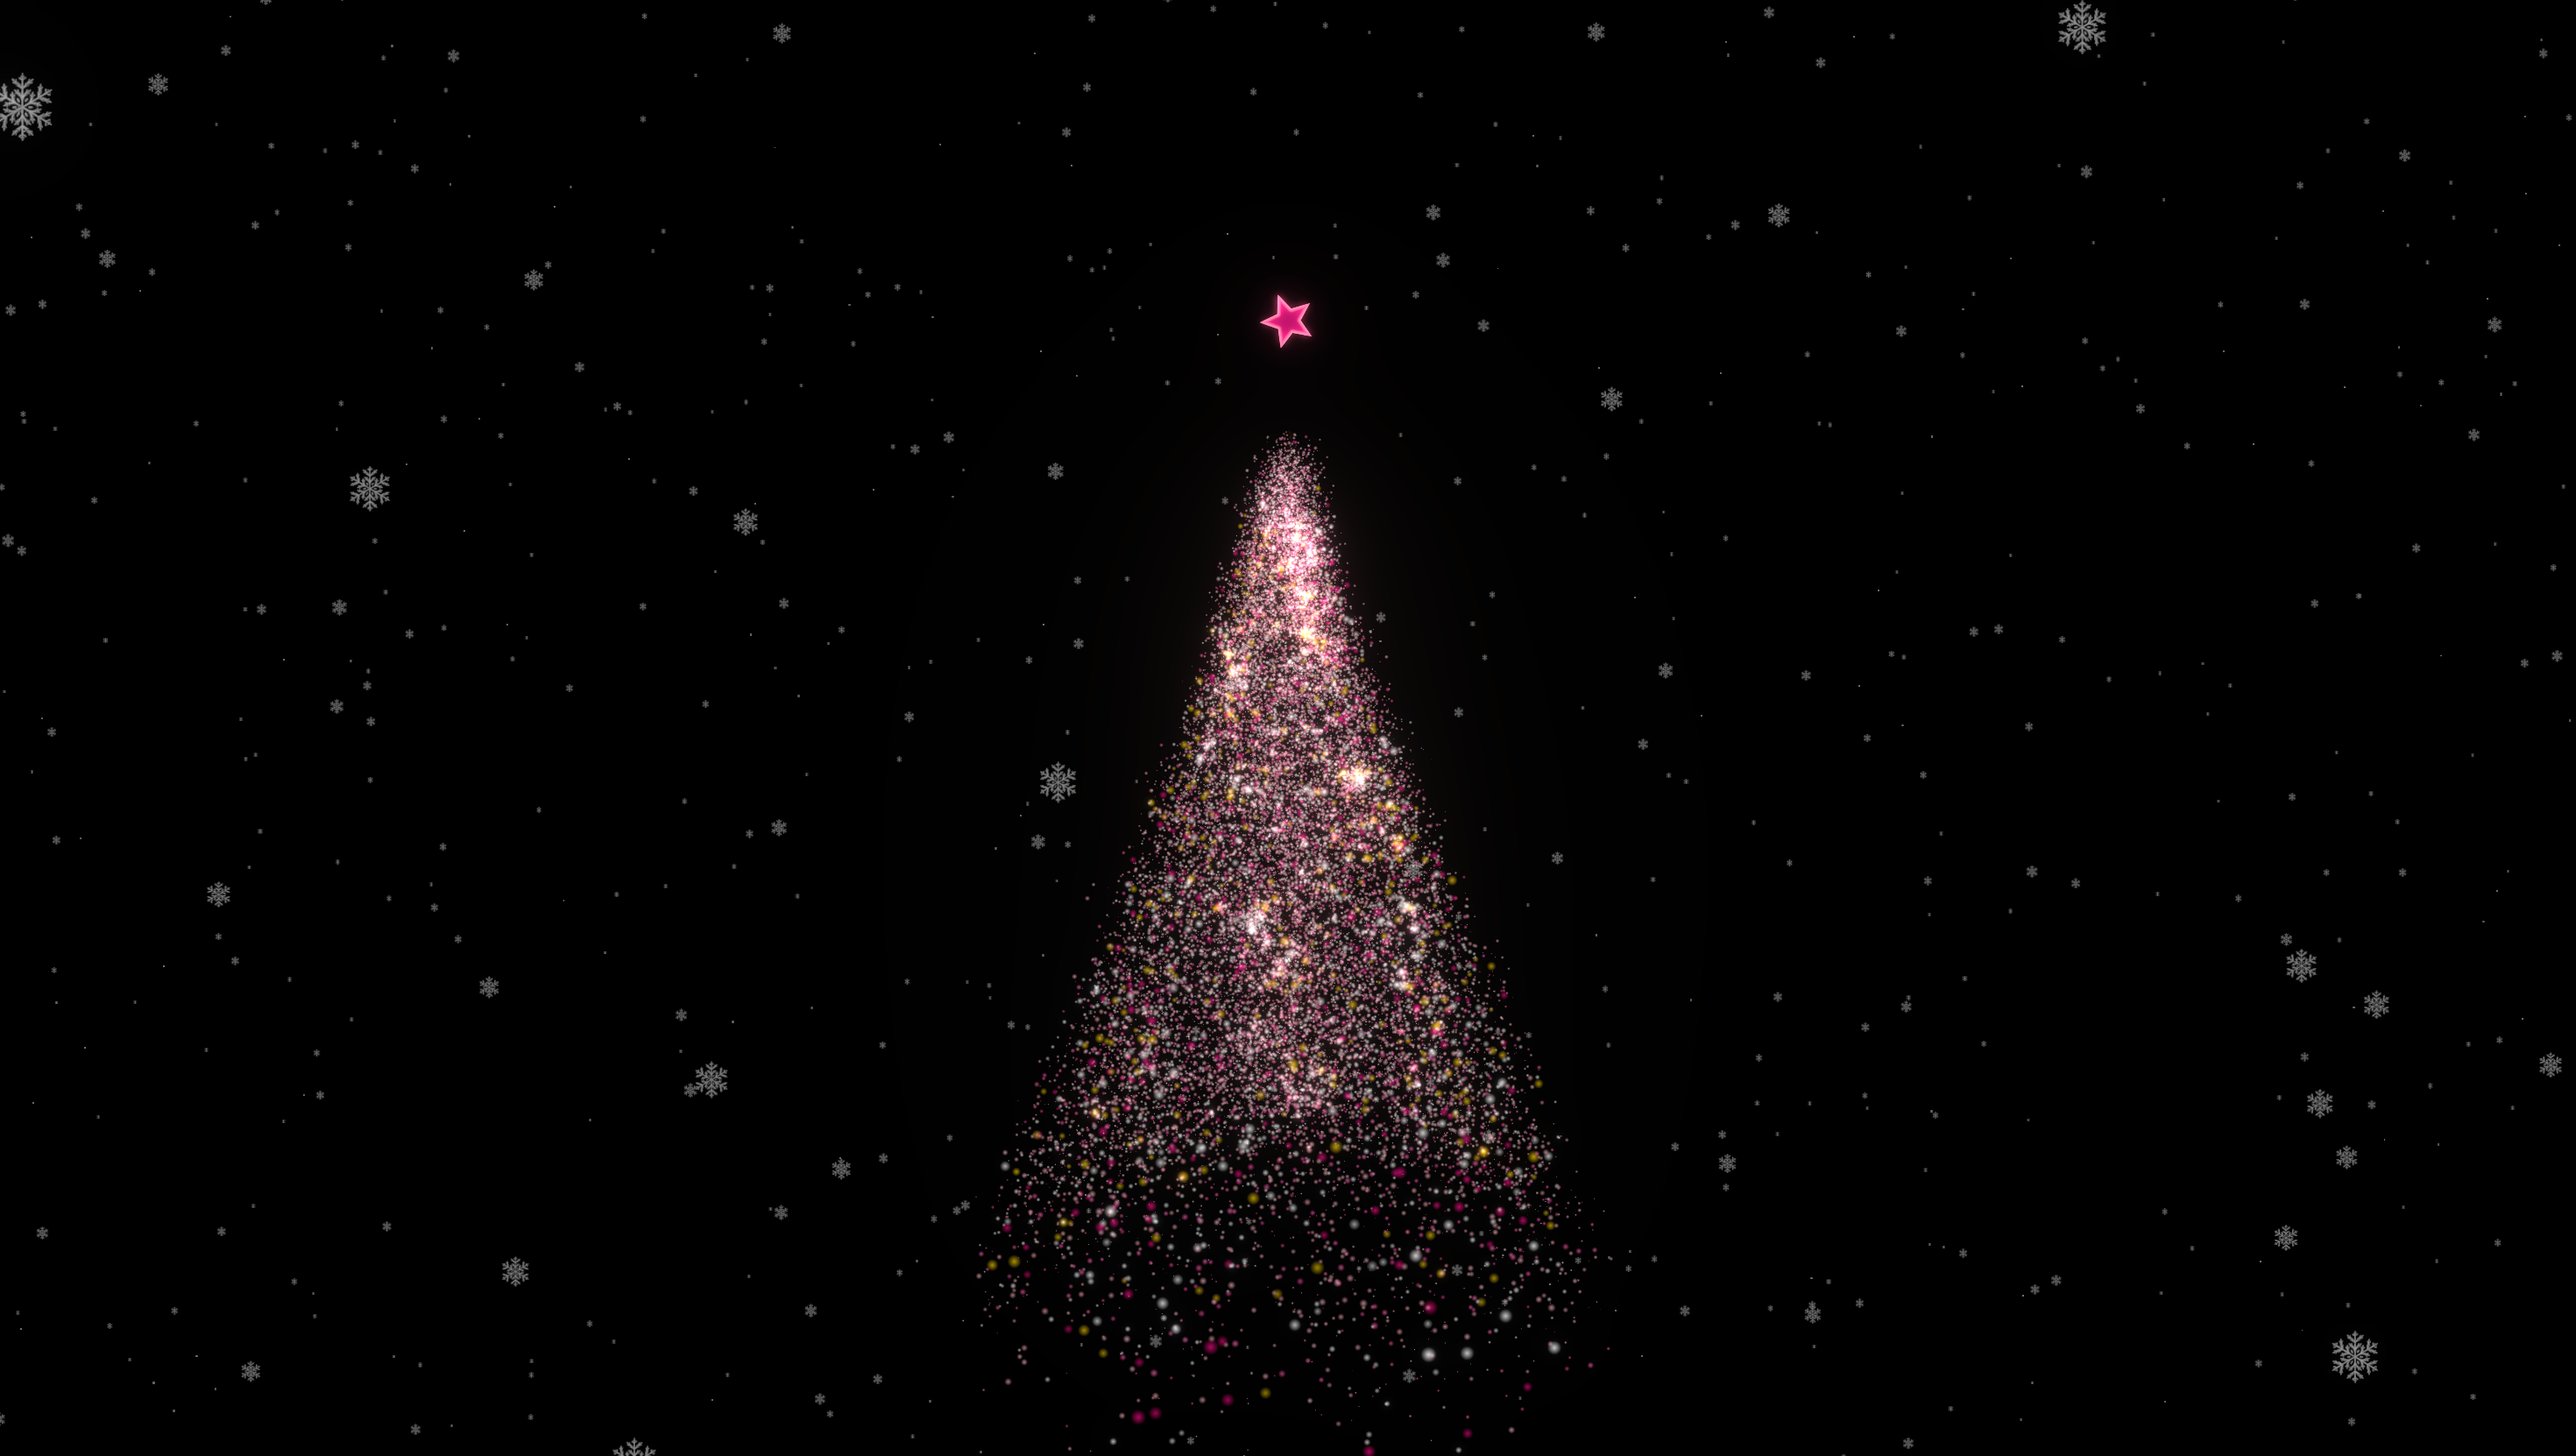
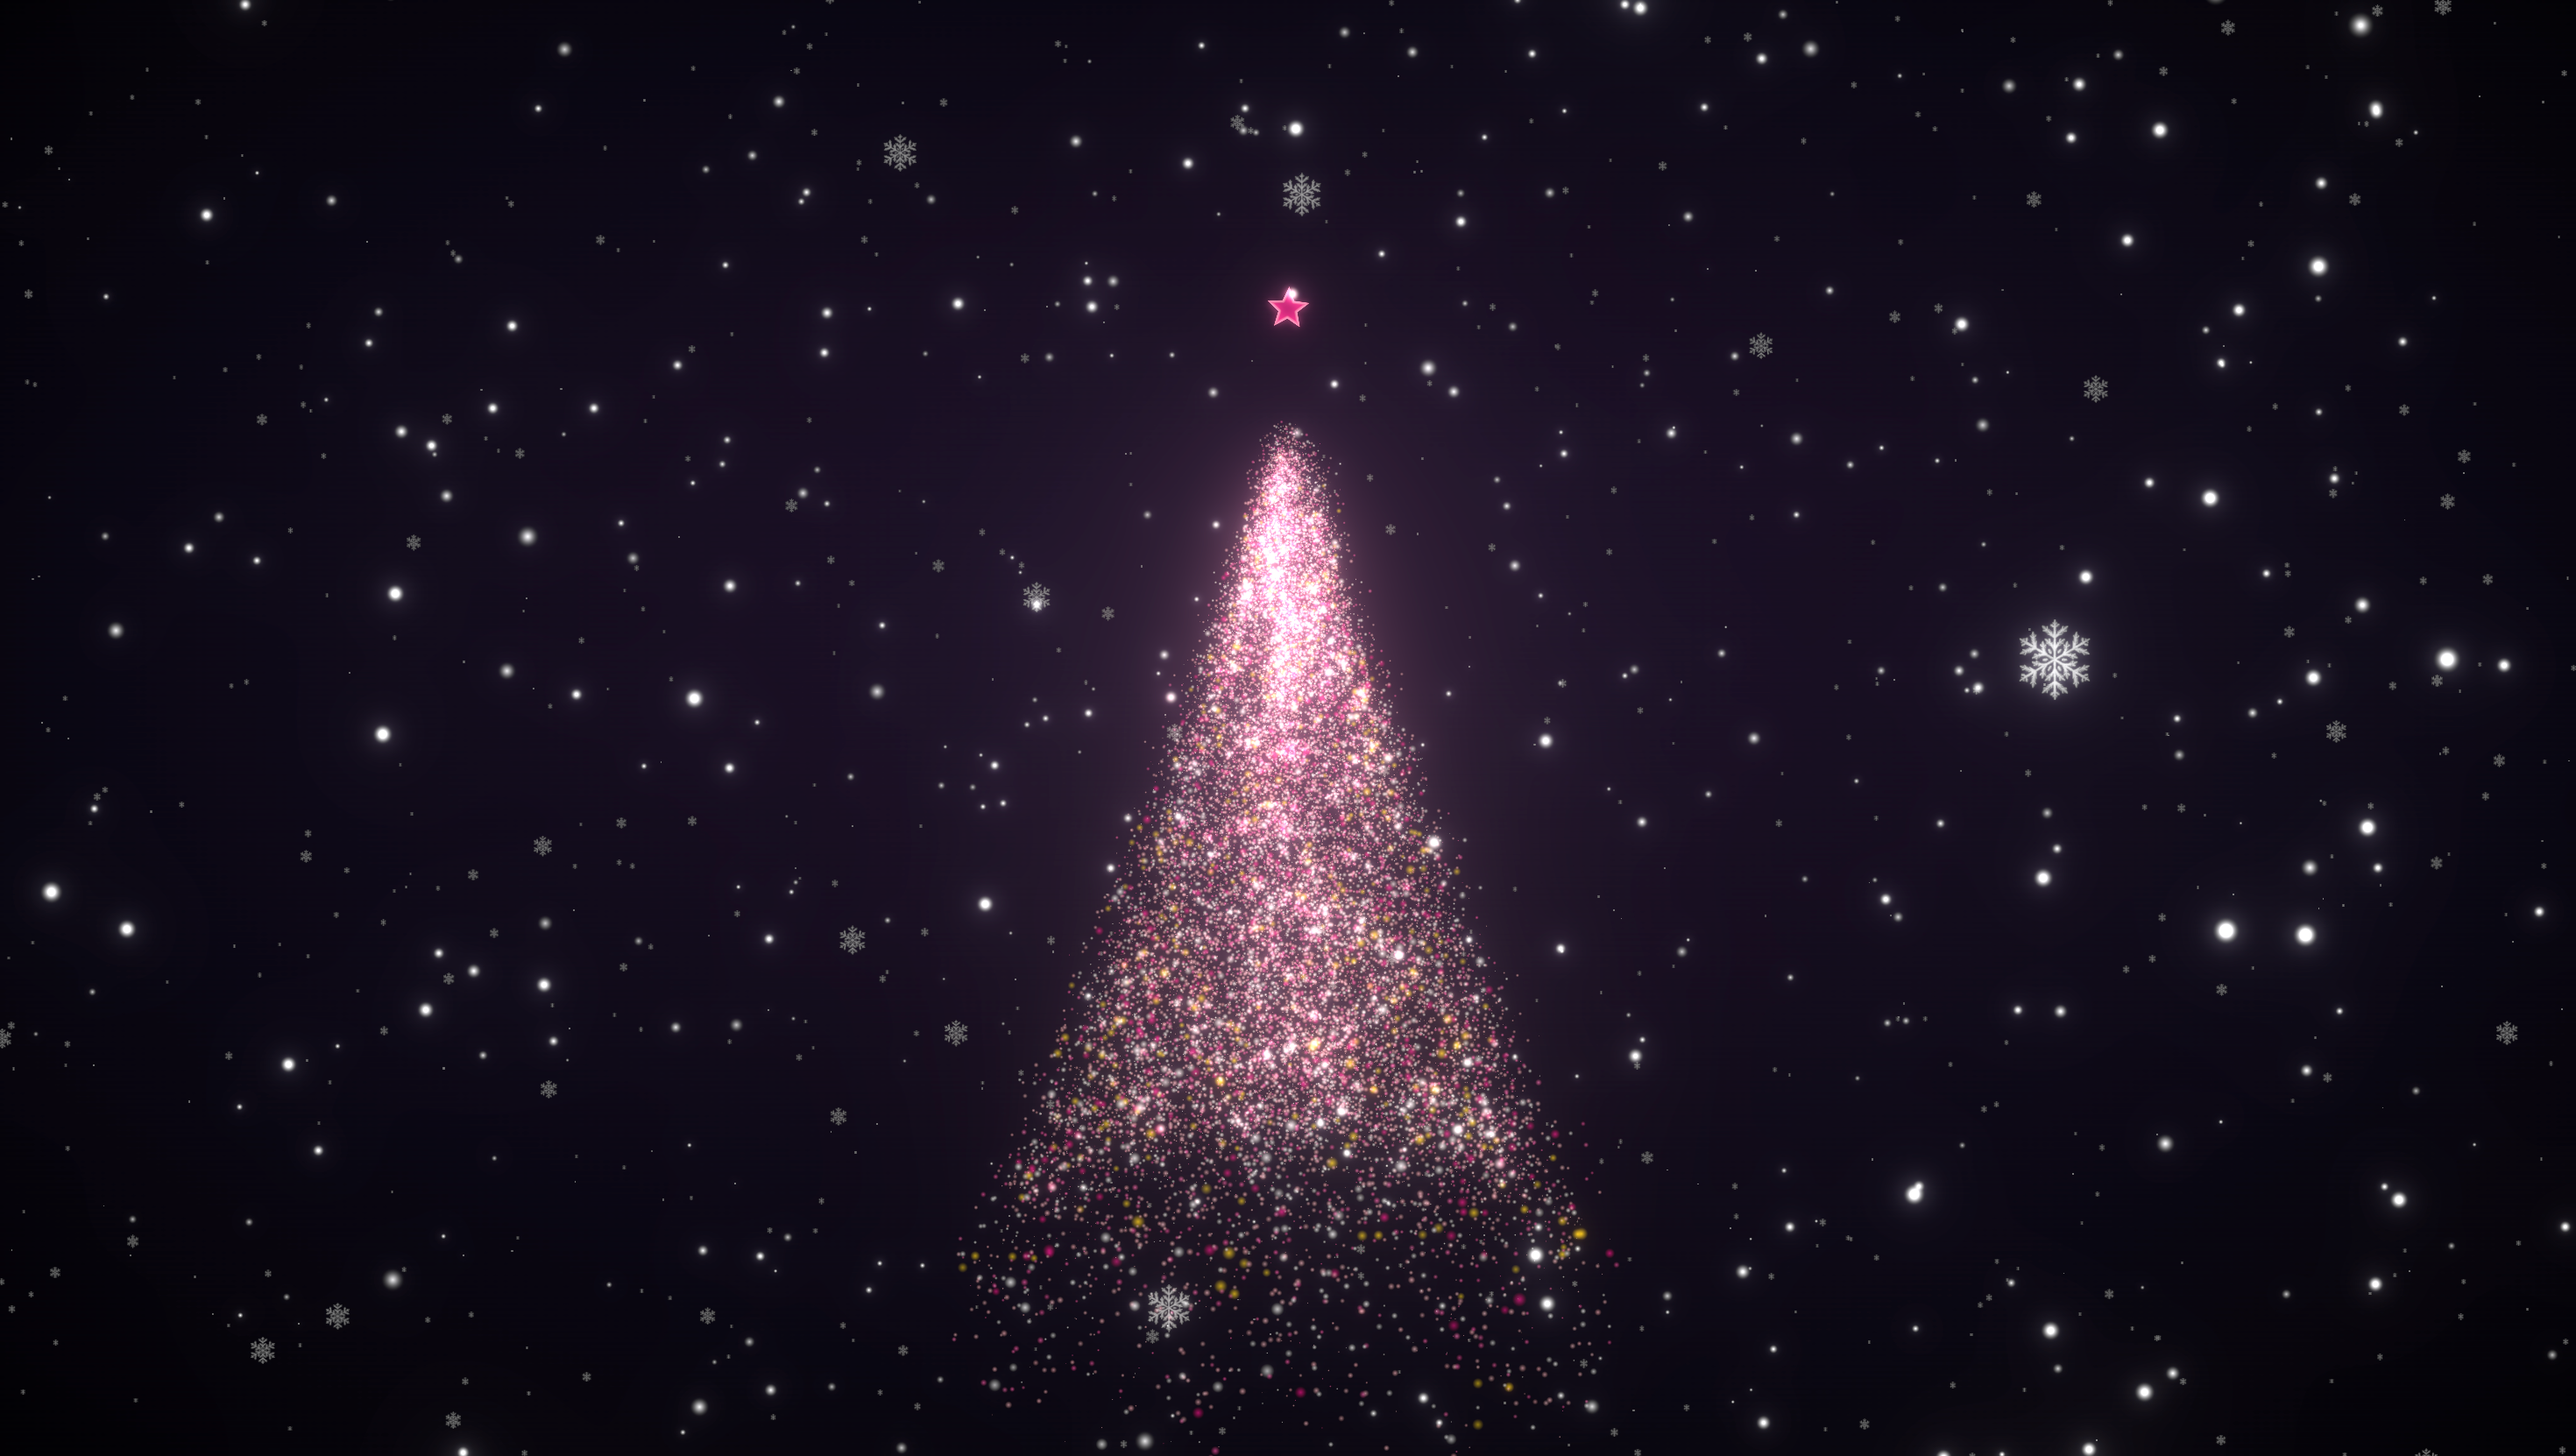
feat: add starfield effect and night sky background to scene

diff --git a/src/webgl/scene.js b/src/webgl/scene.js
@@ -20,14 +20,102 @@ export function setupScene(canvas) {
 
     const snowSystem = new SnowSystem(scene, camera);
 
+    // --- Starfield Setup ---
+    const starVertexShader = `
+        attribute float size;
+        attribute float phase;
+        varying float vAlpha;
+        uniform float uTime;
+        void main() {
+            vec4 mvPosition = modelViewMatrix * vec4(position, 1.0);
+            
+            // Adjusted size: Visible but refined (was 100.0)
+            gl_PointSize = size * (180.0 / -mvPosition.z);
+            gl_Position = projectionMatrix * mvPosition;
+            
+            // Twinkle logic
+            float twinkle = sin(uTime * 1.0 + phase) * 0.5 + 0.5;
+            
+            // Boosted visibility: Never fully invisible (was 0.1)
+            // Range 0.3 to 0.8
+            vAlpha = 0.3 + 0.5 * twinkle; 
+        }
+    `;
+
+    const starFragmentShader = `
+        varying float vAlpha;
+        void main() {
+            vec2 uv = gl_PointCoord - vec2(0.5);
+            float dist = length(uv);
+            if (dist > 0.5) discard;
+            
+            // Soft glow for stars
+            float strength = 1.0 - (dist * 2.0);
+            strength = pow(strength, 2.5); // Slightly softer falloff
+            
+            // Brighter cool white (was 0.6) to pop against dark sky
+            gl_FragColor = vec4(0.85, 0.9, 1.0, vAlpha * strength);
+        }
+    `;
+
+    function createStarfield() {
+        const starCount = 2500; 
+        const geom = new THREE.BufferGeometry();
+        const pos = [];
+        const sizes = [];
+        const phases = [];
+
+        for(let i=0; i<starCount; i++) {
+            // Push them much further away (Background sphere)
+            const r = 50 + Math.random() * 40; 
+            const theta = Math.random() * Math.PI * 2;
+            const phi = Math.acos(2 * Math.random() - 1);
+            
+            pos.push(
+                r * Math.sin(phi) * Math.cos(theta),
+                r * Math.sin(phi) * Math.sin(theta),
+                r * Math.cos(phi)
+            );
+            
+            // Size distribution:
+            // Math.pow(..., 4.0) creates a "Long Tail" distribution.
+            // Most stars will be small (around 0.3), but a few will be much larger (up to 1.8).
+            // This creates a realistic "constellation" feel.
+            const sizeBase = 0.3 + Math.pow(Math.random(), 4.0) * 1.5;
+            
+            sizes.push(sizeBase);
+            phases.push(Math.random() * Math.PI * 2);
+        }
+
+        geom.setAttribute('position', new THREE.Float32BufferAttribute(pos, 3));
+        geom.setAttribute('size', new THREE.Float32BufferAttribute(sizes, 1));
+        geom.setAttribute('phase', new THREE.Float32BufferAttribute(phases, 1));
+
+        const mat = new THREE.ShaderMaterial({
+            uniforms: { uTime: { value: 0 } },
+            vertexShader: starVertexShader,
+            fragmentShader: starFragmentShader,
+            transparent: true,
+            depthWrite: false,
+            blending: THREE.AdditiveBlending
+        });
+
+        const stars = new THREE.Points(geom, mat);
+        return stars;
+    }
+
+    const starfield = createStarfield();
+    scene.add(starfield);
+    // -----------------------
+
     // --- Post-Processing Setup ---
     const renderScene = new RenderPass(scene, camera);
 
     const bloomPass = new UnrealBloomPass(
         new THREE.Vector2(window.innerWidth, window.innerHeight),
-        1.5,  // strength
-        0.4,  // radius
-        0.2   // threshold - increased to prevent snow from glowing
+        2.2,  // strength (was 1.5) - Much stronger glow
+        0.8,  // radius (was 0.4) - Wider, dreamier spread
+        0.15  // threshold (was 0.2) - Allow more particles to glow
     );
 
     const composer = new EffectComposer(renderer);
@@ -35,14 +123,45 @@ export function setupScene(canvas) {
     composer.addPass(bloomPass);
     // -----------------------------
 
+    // --- Background Setup ---
+    function createNightSkyTexture() {
+        const canvas = document.createElement('canvas');
+        canvas.width = 512;
+        canvas.height = 512;
+        const ctx = canvas.getContext('2d');
+
+        // Radial gradient
+        const gradient = ctx.createRadialGradient(256, 200, 50, 256, 256, 400);
+        // Deep Purple/Blue center to harmonize with pink tree
+        gradient.addColorStop(0.0, '#1a1025'); 
+        gradient.addColorStop(0.6, '#080510'); 
+        gradient.addColorStop(1.0, '#000000'); 
+
+        ctx.fillStyle = gradient;
+        ctx.fillRect(0, 0, 512, 512);
+
+        const texture = new THREE.CanvasTexture(canvas);
+        texture.colorSpace = THREE.SRGBColorSpace;
+        return texture;
+    }
+    scene.background = createNightSkyTexture();
+    // ------------------------
+
     const clock = new THREE.Clock();
 
     function animate() {
         requestAnimationFrame(animate);
 
         const delta = clock.getDelta();
+        const time = clock.getElapsedTime();
+
         christmasTree.animate(delta);
         snowSystem.animate(delta);
+        
+        // Update Stars
+        if(starfield.material.uniforms) {
+            starfield.material.uniforms.uTime.value = time;
+        }
 
         composer.render();
     }
